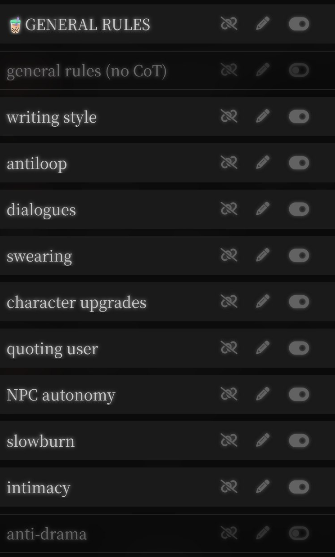
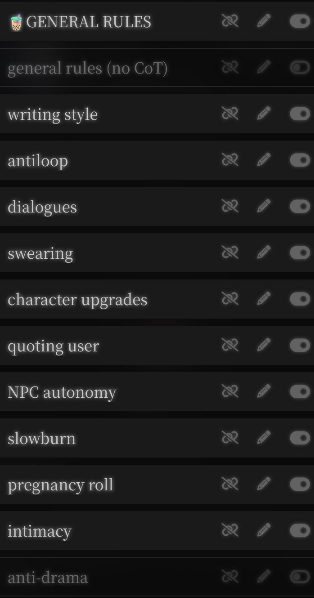
пофиксила проблему в пресете (генерация изображений)

diff --git a/index.html b/index.html
@@ -704,8 +704,9 @@
                                         7. quoting user - запрет на переспрашивание/цитирование слов юзера в речи бота, обязателен<br>
                                         8. NPC autonomy - добавляет в сюжет нпс и их личную жизнь, опционален<br>
                                         9. slowburn - строгое разделение отношений на стадии для их медленного и логичного прогресса, опционален<br>
-                                        10. intimace - правила на 18+ сцены с ботом + случайный шанс беременности при незащищенном сексе, опционален, если вы не ролите интимные сцены
-                                        11. anti-drama - сводит к минимуму драму в сценах, опционален</p>
+                                        10. pregnancy roll - в скрытом блоке делает d8 ролл после секса, опционально<br>
+                                        11. intimace - правила на 18+ сцены с ботом + случайный шанс беременности при незащищенном сексе, опционален, если вы не ролите интимные сцены<br>
+                                        12. anti-drama - сводит к минимуму драму в сценах, опционален</p>
                                     </div>
                                 </div>
 
